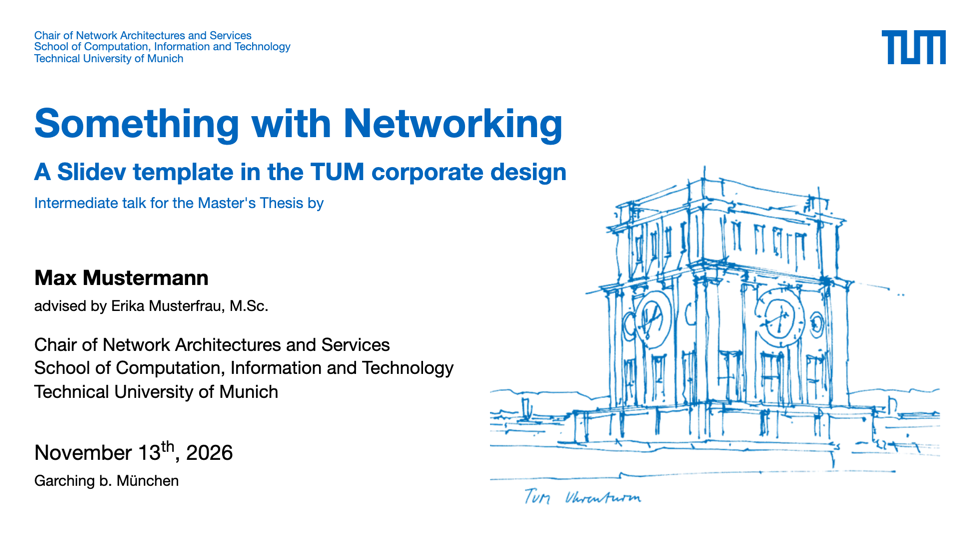
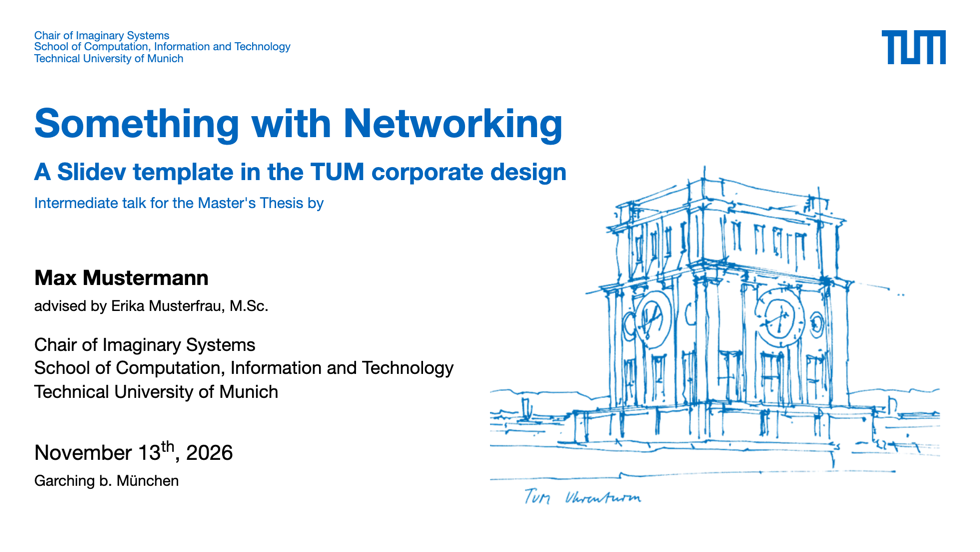
docs: MIT licence, TUM disclaimer and a fictional example chair (#2)
- MIT licence for code and docs. NOTICE.md excludes the TUM name, the
  TUM logo and the Uhrenturm drawing, which belong to TUM; READMEs and
  docs state that the project is not affiliated with or endorsed by TUM.
- Examples and docs use the fictional "Chair of Imaginary Systems"
  instead of a real chair, and example.org addresses instead of
  possibly real tum.de mailboxes. Cover and end screenshots re-rendered.

Changed region(s): [[0.0918, 0.6159, 0.398, 0.6467], [0.0612, 0.0616, 0.2755, 0.0924]]

diff --git a/theme/components/TumTower.vue b/theme/components/TumTower.vue
@@ -1,4 +1,7 @@
-<!-- Uhrenturm drawing on the cover and end slides (internal) -->
+<!--
+  Uhrenturm drawing on the cover and end slides (internal).
+  The drawing belongs to TUM and is not covered by the MIT licence (see NOTICE.md).
+-->
 <script setup lang="ts">
 import uhrenturm from '../assets/uhrenturm.png'
 </script>

diff --git a/theme/components/TumLogo.vue b/theme/components/TumLogo.vue
@@ -1,5 +1,6 @@
 <!--
   TUM logo, traced from \TUMLogo in tumlogo.sty.
+  The logo is a TUM trademark and not covered by the MIT licence (see NOTICE.md).
   <TumLogo />                    blue, 28px high
   <TumLogo color="white" :height="60" />
 -->

diff --git a/theme/layouts/end.vue b/theme/layouts/end.vue
@@ -2,7 +2,7 @@
   Closing slide, same composition as the cover. Body defaults to "Questions?".
   ---
   layout: end
-  email: jane.doe@tum.de
+  email: jane.doe@example.org
   web: www.cs.cit.tum.de
   tower: true
   ---

diff --git a/theme/NOTICE.md b/theme/NOTICE.md
@@ -1,0 +1,16 @@
+# Notice: TUM name, logo and Uhrenturm
+
+This project is independent. It is not affiliated with, sponsored by or endorsed by the Technical University of Munich (TUM).
+
+The [MIT licence](https://github.com/danielgnth/slidev-tum-theme/blob/main/LICENSE) covers the code and documentation of this project. It does **not** cover the following, which belong to TUM:
+
+| Material | Where |
+|---|---|
+| The names "TUM", "Technische Universität München" and "Technical University of Munich" | throughout |
+| The TUM logo | `theme/components/TumLogo.vue` (SVG path) |
+| The Uhrenturm drawing | `theme/assets/uhrenturm.png` |
+| The TUM corporate design | colours, layout and typography rules the theme follows |
+
+No rights to these are granted. Use them only as TUM's corporate design guidelines allow, which generally means presentations by TUM members for TUM purposes. The TUM Neue Helvetica typeface is not included.
+
+If you represent TUM and want any of this material changed or removed, please open an issue or contact the maintainer.

diff --git a/AGENTS.md b/AGENTS.md
@@ -53,4 +53,5 @@ To look at slides: `pnpm exec slidev export examples/showcase/slides.md --format
 - **Commits / PR titles**: Conventional Commits (`feat(layouts): …`). They generate the changelog and the version.
 - **Workflows**: pin actions by full SHA with a `# vX.Y.Z` comment, `permissions: {}` at the top, least privilege per job, `persist-credentials: false`. Run `pnpm lint:actions`.
 - **Releases** happen only through `pnpm release` → PR → `release.yml`. Never publish to npm by hand, never edit versions or CHANGELOG.md manually.
-- `theme/assets/uhrenturm.png` and the logo path in `TumLogo.vue` are TUM corporate design assets: do not modify them.
+- `theme/assets/uhrenturm.png` and the logo path in `TumLogo.vue` are TUM corporate design assets, excluded from the MIT licence (`NOTICE.md`): do not modify them, and do not add other TUM assets without updating `NOTICE.md`.
+- Example content uses fictional names ("Chair of Imaginary Systems", Max Mustermann, `@example.org`), never real chairs or people.

diff --git a/NOTICE.md b/NOTICE.md
@@ -1,0 +1,16 @@
+# Notice: TUM name, logo and Uhrenturm
+
+This project is independent. It is not affiliated with, sponsored by or endorsed by the Technical University of Munich (TUM).
+
+The [MIT licence](LICENSE) covers the code and documentation of this project. It does **not** cover the following, which belong to TUM:
+
+| Material | Where |
+|---|---|
+| The names "TUM", "Technische Universität München" and "Technical University of Munich" | throughout |
+| The TUM logo | `theme/components/TumLogo.vue` (SVG path) |
+| The Uhrenturm drawing | `theme/assets/uhrenturm.png` |
+| The TUM corporate design | colours, layout and typography rules the theme follows |
+
+No rights to these are granted. Use them only as TUM's corporate design guidelines allow, which generally means presentations by TUM members for TUM purposes. The TUM Neue Helvetica typeface is not included.
+
+If you represent TUM and want any of this material changed or removed, please open an issue or contact the maintainer.

diff --git a/README.md b/README.md
@@ -23,7 +23,7 @@ title: Something with Networking
 author: Max Mustermann
 themeConfig:
   lang: en # en | de
-  chair: Chair of Network Architectures and Services
+  chair: Chair of Imaginary Systems
 ---
 ```
 
@@ -45,3 +45,9 @@ test/        Vitest
 ```
 
 See [AGENTS.md](AGENTS.md) for conventions (written for agents, useful for humans), [Development](https://danielgnth.github.io/slidev-tum-theme/development/) for the details, and [Releasing](https://danielgnth.github.io/slidev-tum-theme/development/releasing/) for the release flow with npm trusted publishing and SLSA provenance.
+
+## Licence and disclaimer
+
+The code and documentation are [MIT licensed](LICENSE).
+
+This is an independent project: it is **not affiliated with, sponsored by or endorsed by the Technical University of Munich (TUM)**. The TUM name, the TUM logo and the Uhrenturm drawing belong to TUM and are **excluded from the licence**. Use them only as TUM's corporate design guidelines allow. See [NOTICE.md](NOTICE.md).

diff --git a/docs/index.md b/docs/index.md
@@ -18,7 +18,7 @@ theme: tum
 title: Something with Networking
 author: Max Mustermann
 themeConfig:
-  chair: Chair of Network Architectures and Services
+  chair: Chair of Imaginary Systems
 ---
 ```
 
@@ -49,4 +49,4 @@ Then `pnpm dev`. The [getting started guide](getting-started.md) has the details
 - **Ready for AI agents**: the package ships an agent skill so Claude Code, Copilot and others write decks that use the theme correctly: see [Writing slides with AI](ai.md)
 
 !!! note "Not an official TUM product"
-    This theme follows the public TUM corporate design guidelines. Use the TUM logo only as the corporate design allows.
+    This is an independent project, not affiliated with, sponsored by or endorsed by TUM. The code is MIT licensed; the TUM name, the TUM logo and the Uhrenturm drawing belong to TUM and are excluded from the licence ([NOTICE](https://github.com/danielgnth/slidev-tum-theme/blob/main/NOTICE.md)). Use them only as the TUM corporate design guidelines allow.

diff --git a/theme/README.md b/theme/README.md
@@ -13,7 +13,7 @@ title: Something with Networking
 author: Max Mustermann
 themeConfig:
   lang: en # en | de
-  chair: Chair of Network Architectures and Services
+  chair: Chair of Imaginary Systems
 ---
 ```
 
@@ -22,3 +22,7 @@ themeConfig:
 **For AI agents:** a complete reference of layouts, options and components is included at `skills/slidev-tum/SKILL.md`.
 
 Releases are published from GitHub Actions with npm provenance and SLSA build and source provenance.
+
+## Licence and disclaimer
+
+The code is MIT licensed. This is an independent project, **not affiliated with, sponsored by or endorsed by the Technical University of Munich (TUM)**. The TUM name, the TUM logo (`components/TumLogo.vue`) and the Uhrenturm drawing (`assets/uhrenturm.png`) belong to TUM and are **excluded from the licence**; see `NOTICE.md`.

diff --git a/examples/showcase/slides.md b/examples/showcase/slides.md
@@ -16,7 +16,7 @@ themeConfig:
   header: compact               # compact (title next to logo) | full (chair lines above title)
   shortTitle: Networking
   shortAuthor: M. Mustermann
-  chair: Chair of Network Architectures and Services
+  chair: Chair of Imaginary Systems
   # school: TUM School of Computation, Information and Technology
   # university: Technical University of Munich
   # footer: false               # or a custom string
@@ -321,6 +321,6 @@ layout: references
 
 ---
 layout: end
-email: max.mustermann@tum.de
+email: max.mustermann@example.org
 web: www.tum.de
 ---

diff --git a/theme/skills/slidev-tum/SKILL.md b/theme/skills/slidev-tum/SKILL.md
@@ -27,7 +27,7 @@ tower: true # Uhrenturm drawing on the title slide
 themeConfig:
   lang: en # en | de: all generated labels
   header: compact # compact (title next to logo) | full (chair/school/university above)
-  chair: Chair of Network Architectures and Services
+  chair: Chair of Imaginary Systems
   shortTitle: Networking # footer
   shortAuthor: M. Mustermann # footer
   # school, university, department: override the organisation lines

diff --git a/docs/getting-started.md b/docs/getting-started.md
@@ -39,7 +39,7 @@ themeConfig:
   lang: en # en | de
   shortTitle: Networking
   shortAuthor: M. Mustermann
-  chair: Chair of Network Architectures and Services
+  chair: Chair of Imaginary Systems
 transition: none
 ---
 ```
